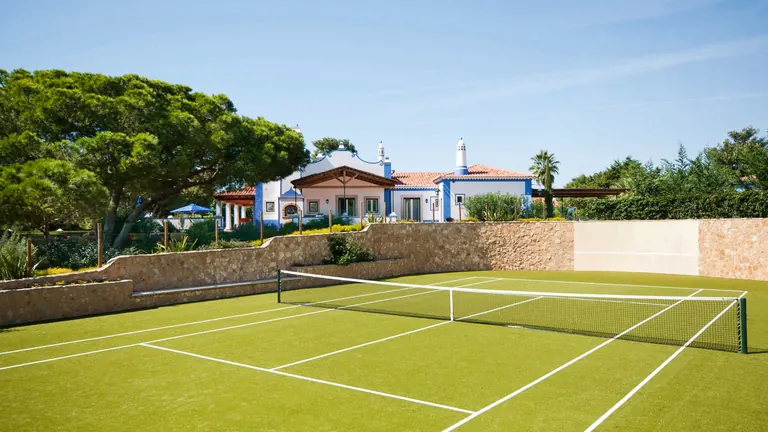
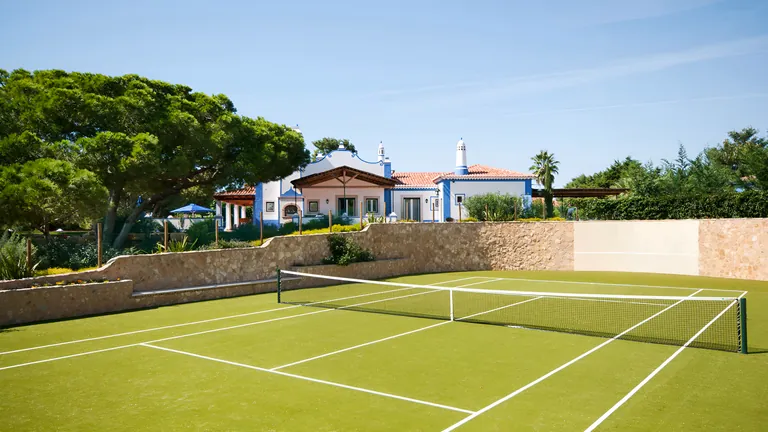
feat(home): sharper Mirante 1 hero from a Real-ESRGAN x2 master; share image follows the hero
- The supplier's 1920×1080 JPEG is noisy and their CDN has no larger file, so
  the hero looked grainy on Retina screens. All variants (768/1280/1920 plus a
  new 2560 for 2x desktops) are now derived from a Real-ESRGAN x2 master of
  the original; the listing lead photo (PDP hero, 1600) is regenerated from it.
- og:image / twitter:image / JSON-LD image, the client meta fallback and the
  SSR default now point at home-mirante-tennis-og.jpg, a 1200×630 JPEG cut
  from the same master (WebP is not safe for every share scraper).

Changed region(s): [[0.8125, 0.4815, 0.8438, 0.5116]]

diff --git a/client/index.html b/client/index.html
@@ -37,7 +37,7 @@
     <meta property="og:url" content="https://www.portugalactive.com/" />
     <meta property="og:site_name" content="Portugal Active" />
     <meta property="og:locale" content="en_GB" />
-    <meta property="og:image" content="https://www.portugalactive.com/hero/home-cliff-villa.webp" />
+    <meta property="og:image" content="https://www.portugalactive.com/hero/home-mirante-tennis-og.jpg" />
     <meta property="og:image:width" content="1200" />
     <meta property="og:image:height" content="630" />
     <meta property="og:image:alt" content="Portugal Active — Private Hotels in Portugal" />
@@ -46,7 +46,7 @@
     <meta name="twitter:card" content="summary_large_image" />
     <meta name="twitter:title" content="Private Hotels in Portugal | Portugal Active" />
     <meta name="twitter:description" content="Private hotels in Portugal: whole private homes operated end to end by one in-house team, with dedicated concierge, private chef and housekeeping. Minho, Porto, Douro, Lisbon, Alentejo and Algarve. Book direct." />
-    <meta name="twitter:image" content="https://www.portugalactive.com/hero/home-cliff-villa.webp" />
+    <meta name="twitter:image" content="https://www.portugalactive.com/hero/home-mirante-tennis-og.jpg" />
     <meta name="twitter:image:alt" content="Portugal Active — Private Hotels in Portugal" />
 
     <!-- Additional SEO & performance -->
@@ -56,8 +56,8 @@
     <meta name="apple-mobile-web-app-capable" content="yes" />
     <meta name="apple-mobile-web-app-status-bar-style" content="black-translucent" />
     <meta name="apple-mobile-web-app-title" content="Portugal Active" />
-    <meta property="og:image:type" content="image/webp" />
-    <meta property="og:image:secure_url" content="https://www.portugalactive.com/hero/home-cliff-villa.webp" />
+    <meta property="og:image:type" content="image/jpeg" />
+    <meta property="og:image:secure_url" content="https://www.portugalactive.com/hero/home-mirante-tennis-og.jpg" />
 
     <!-- AI discoverability -->
     <link rel="author" href="https://www.portugalactive.com/about" />
@@ -87,7 +87,7 @@
       "url": "https://www.portugalactive.com",
       "description": "Private hotels in Portugal: whole private homes operated end to end by one in-house team, with dedicated concierge, private chef and housekeeping. Minho, Porto, Douro, Lisbon, Alentejo and Algarve.",
       "logo": "https://www.portugalactive.com/brand/pa-logo-dark.png",
-      "image": "https://www.portugalactive.com/hero/home-cliff-villa.webp",
+      "image": "https://www.portugalactive.com/hero/home-mirante-tennis-og.jpg",
       "email": "info@portugalactive.com",
       "telephone": "+351258358434",
       "foundingDate": "2017",

diff --git a/client/src/lib/images.ts b/client/src/lib/images.ts
@@ -5,9 +5,10 @@
 export const IMAGES = {
   // Hero images
   // Homepage cover — Mirante 1 (Albufeira, partner home): the private tennis
-  // court with the blue-trimmed villa behind it. Source is the supplier's
-  // 1920×1080 original (exports/tripwix-photos, gitignored); there is no
-  // larger master, so 1920 is the top of the srcSet.
+  // court with the blue-trimmed villa behind it. The supplier's original is
+  // a grainy 1920×1080 JPEG; the shipped set (768/1280/1920/2560) and the
+  // social JPEG are derived from a Real-ESRGAN x2 master kept next to the
+  // original in exports/tripwix-photos (gitignored).
   heroMain: '/hero/home-mirante-tennis.webp',
   // Auto-hospedada: o CDN da plataforma original (d2xsxph8kpxj0f.cloudfront.net)
   // comecou a devolver 403/503 em 24 ago 2026 e nao volta — qualquer imagem

diff --git a/client/src/hooks/usePageMeta.ts b/client/src/hooks/usePageMeta.ts
@@ -5,7 +5,7 @@ const SUPPORTED_LANGS = ['en', 'pt', 'fr', 'es', 'it', 'fi', 'de', 'nl', 'sv'];
 const BASE_TITLE = 'Private Hotels in Portugal | Portugal Active';
 const BASE_DESC = 'Private hotels in Portugal: whole private homes operated end to end by one in-house team, with dedicated concierge, private chef and housekeeping. Minho, Porto, Douro, Lisbon, Alentejo and Algarve. Book direct.';
 const BASE_URL = 'https://www.portugalactive.com';
-const BASE_IMAGE = 'https://www.portugalactive.com/hero/home-cliff-villa.webp';
+const BASE_IMAGE = 'https://www.portugalactive.com/hero/home-mirante-tennis-og.jpg';
 
 
 function setMeta(selector: string, attr: string, value: string) {

diff --git a/client/src/pages/Home.tsx b/client/src/pages/Home.tsx
@@ -384,7 +384,7 @@ export default function Home() {
         <div className="absolute inset-0">
           <img
             src={IMAGES.heroMain}
-            srcSet="/hero/home-mirante-tennis-768.webp 768w, /hero/home-mirante-tennis-1280.webp 1280w, /hero/home-mirante-tennis.webp 1920w"
+            srcSet="/hero/home-mirante-tennis-768.webp 768w, /hero/home-mirante-tennis-1280.webp 1280w, /hero/home-mirante-tennis.webp 1920w, /hero/home-mirante-tennis-2560.webp 2560w"
             sizes="100vw"
             alt={t('home.heroAlt')}
             className="w-full h-full object-cover"

diff --git a/server/_core/vite.ts b/server/_core/vite.ts
@@ -776,7 +776,7 @@ function asSentence(s: string): string {
   return !clean || /[.!?…]$/.test(clean) ? clean : `${clean}.`;
 }
 
-const DEFAULT_OG_IMAGE = 'https://www.portugalactive.com/hero/home-cliff-villa.webp';
+const DEFAULT_OG_IMAGE = 'https://www.portugalactive.com/hero/home-mirante-tennis-og.jpg';
 
 /** One place for what goes into <title>, description and Open Graph: absolute
  *  image URL (partner homes had a relative "/homes/photos/…"), secure_url equal to the
